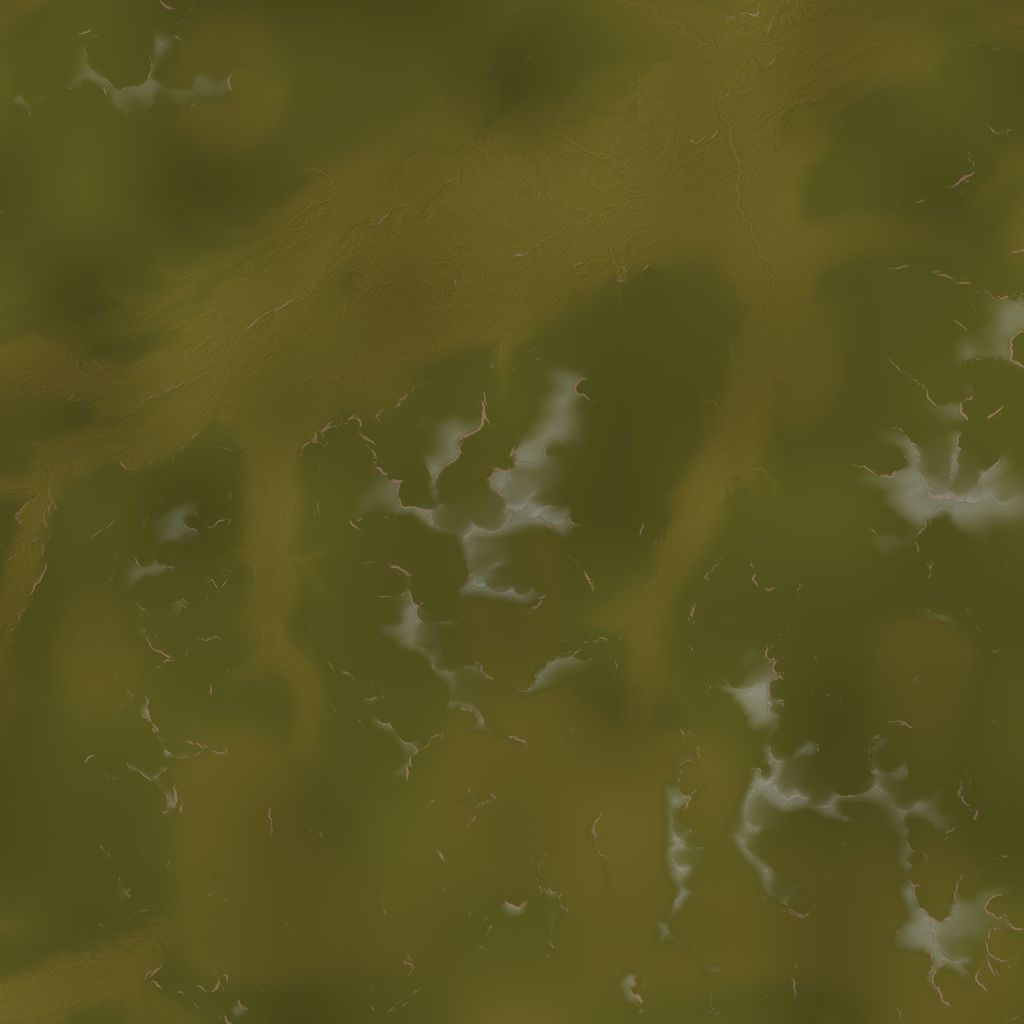
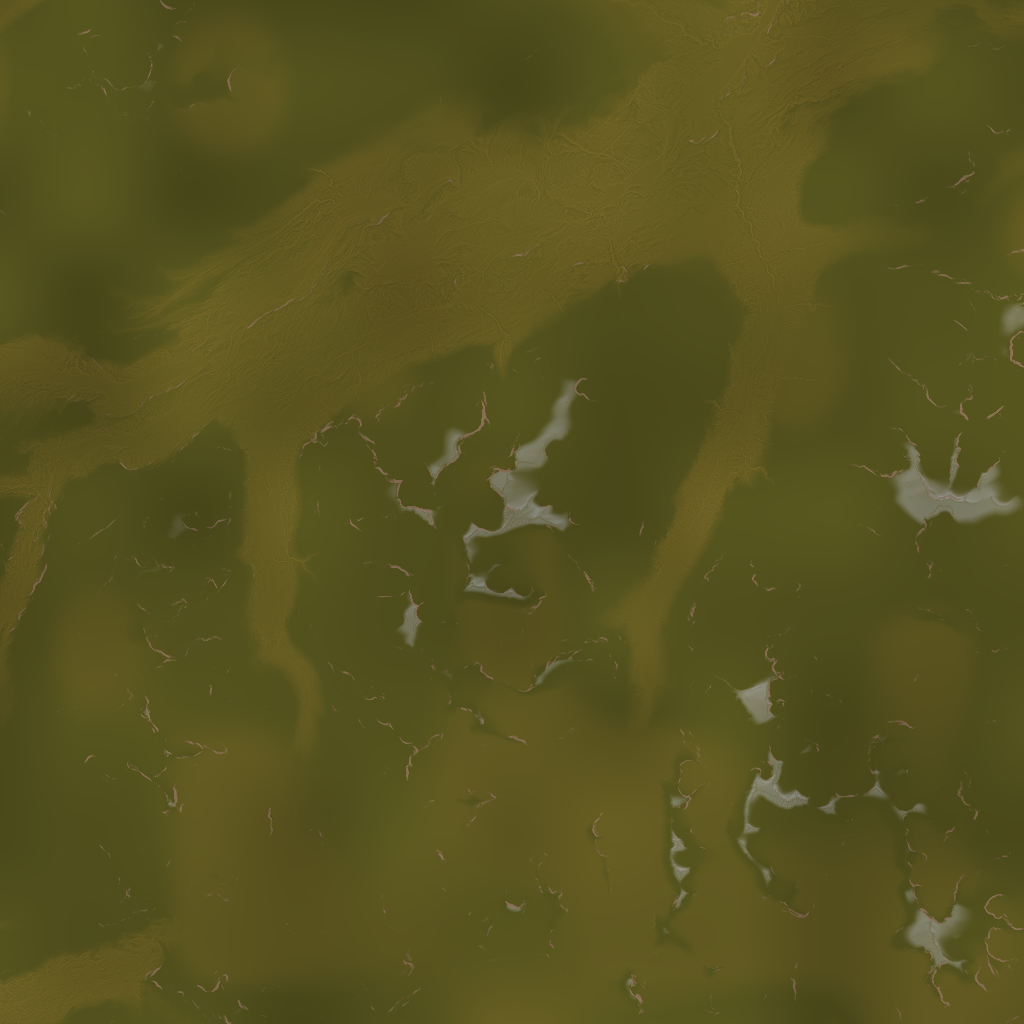
Add per-material texture scales and sharpen elevation blends
Give each packed material a textureScale factor (aerial rock/grass/snow/beach use 0.25-0.5; close-ups 1.0) multiplied by the global 32x slider. Re-bake the Jotunheimen stack with a sharp 100 m snow band at 0.85 and narrower grass elevation transitions, then update the docs and swatch captions.

diff --git a/tools/dem/material-stack.ts b/tools/dem/material-stack.ts
@@ -66,7 +66,8 @@ export interface MaterialStackResult {
   stats: MaterialStackStats;
 }
 
-const SNOW_START = 0.84;
+const SNOW_START = 0.85;
+const SNOW_BAND = 0.04;
 const clamp01 = (v: number): number => (v < 0 ? 0 : v > 1 ? 1 : v);
 const smoothstep = (a: number, b: number, x: number): number => {
   const t = clamp01((x - a) / (b - a));
@@ -150,19 +151,19 @@ export function weightsAt(
   // Rock Face only on genuinely steep faces; rocky terrain owns the rest.
   const cliffFactor = clamp01(smoothstep(0.30, 0.60, sample.slope));
 
-  let snow = smoothstep(SNOW_START, SNOW_START + 0.14, sample.height * 1.06)
+  let snow = smoothstep(SNOW_START, SNOW_START + SNOW_BAND, sample.height)
     * (1 - 0.7 * smoothstep(0.30, 0.62, sample.slope))
     * (0.55 + 0.45 * sample.north)
     * (0.82 + 0.18 * ridgeNoise);
   snow *= 1 - 0.25 * sample.ridge;
   snow = clamp01(snow);
 
-  const lowGrass = (1 - smoothstep(0.42, 0.60, sample.height))
+  const lowGrass = (1 - smoothstep(0.46, 0.54, sample.height))
     * (0.55 + 0.45 * bandNoise)
     * (1 - 0.85 * smoothstep(0.26, 0.55, sample.slope))
     * (0.65 + 0.35 * sample.concavity)
     * (1 - 0.45 * sample.ridge);
-  const altitudeGrass = 1 - smoothstep(0.72, 0.90, sample.height);
+  const altitudeGrass = 1 - smoothstep(0.76, 0.84, sample.height);
   const patch = smoothstep(0.55, 0.82, patchNoise)
     * 0.45
     * (1 - cliffFactor)

diff --git a/tools/fetch-materials.ts b/tools/fetch-materials.ts
@@ -46,6 +46,7 @@ interface SourceMaterial {
   biome: string;
   role: string;
   tileMeters: number;
+  textureScale?: number;
   projection: Projection;
   normalStrength: number;
   roughness: number;
@@ -375,12 +376,15 @@ async function packMaterial(
 
 function outputEntry(packed: PackedMaterial, size: number): Record<string, unknown> {
   const { entry, resolved } = packed;
+  const textureScale = entry.textureScale ?? 1;
+  if (!(textureScale > 0)) throw new Error(`${entry.id}: textureScale must be positive`);
   return {
     id: entry.id,
     name: entry.name,
     biome: entry.biome,
     role: entry.role,
     tileMeters: entry.tileMeters,
+    textureScale,
     projection: entry.projection,
     normalStrength: entry.normalStrength,
     roughness: entry.roughness,
@@ -478,6 +482,11 @@ async function checkManifest(): Promise<void> {
     const tile = asset.dimensions ? asset.dimensions[0] / 1000 : NaN;
     if (!Number.isFinite(tile) || Math.abs(tile - entry.tileMeters) > 0.06) {
       process.stderr.write(`FAIL ${entry.id}: tile ${tile} m, expected ${entry.tileMeters} m\n`);
+      failures++;
+      continue;
+    }
+    if (entry.textureScale !== undefined && !(entry.textureScale > 0)) {
+      process.stderr.write(`FAIL ${entry.id}: textureScale must be positive\n`);
       failures++;
       continue;
     }

diff --git a/src/terrain/renderer.ts b/src/terrain/renderer.ts
@@ -237,7 +237,12 @@ export class ClipmapRenderer {
     this.materialParamsA = Array.from({ length: 24 }, (_, i) => {
       const entry = entries[i];
       return entry
-        ? new THREE.Vector4(entry.tileMeters, entry.slopeScale, entry.normalStrength, entry.roughness)
+        ? new THREE.Vector4(
+          entry.tileMeters * (entry.textureScale ?? 1),
+          entry.slopeScale,
+          entry.normalStrength,
+          entry.roughness,
+        )
         : new THREE.Vector4(1, 1, 0, 1);
     });
     this.materialParamsB = Array.from({ length: 24 }, (_, i) => {
@@ -572,7 +577,7 @@ export class ClipmapRenderer {
       const materialScale = this.terrainUniforms.uMaterialScale.value;
       for (let i = 0; i < this.materialLibrary.count; i++) {
         const entry = this.materialLibrary.entries[i];
-        const tile = entry.tileMeters * materialScale;
+        const tile = entry.tileMeters * (entry.textureScale ?? 1) * materialScale;
         this.materialUvOffset[i]?.set(
           wrapPhase(renderOrigin.x, tile),
           wrapPhase(renderOrigin.y, tile),

diff --git a/src/terrain/materials.ts b/src/terrain/materials.ts
@@ -19,6 +19,7 @@ export interface MaterialManifestEntry {
   biome: string;
   role: string;
   tileMeters: number;
+  textureScale?: number;
   projection: MaterialProjection;
   normalStrength: number;
   roughness: number;
@@ -93,6 +94,9 @@ function validateManifest(manifest: MaterialManifest): void {
       throw new Error(`material ${entry.id} is missing a packed texture path`);
     }
     if (!(entry.tileMeters > 0)) throw new Error(`material ${entry.id} has an invalid tile size`);
+    if (entry.textureScale !== undefined && !(entry.textureScale > 0)) {
+      throw new Error(`material ${entry.id} has an invalid texture scale`);
+    }
     if (!(entry.slopeScale > 0)) throw new Error(`material ${entry.id} has an invalid slope scale`);
     if (entry.projection !== 'planar' && entry.projection !== 'triplanar') {
       throw new Error(`material ${entry.id} has an invalid projection`);

diff --git a/tools/test-materials.ts b/tools/test-materials.ts
@@ -31,6 +31,7 @@ interface MaterialEntry {
   biome: string;
   role: string;
   tileMeters: number;
+  textureScale?: number;
   projection: 'planar' | 'triplanar';
   normalStrength: number;
   roughness: number;
@@ -89,6 +90,10 @@ function validate(root: string, manifestPath: string): string[] {
     if (!entry.role) errors.push(`${prefix}: missing role`);
     if (!isFiniteNumber(entry.tileMeters) || entry.tileMeters < 0.5 || entry.tileMeters > 100) {
       errors.push(`${prefix}: tileMeters ${String(entry.tileMeters)} outside 0.5..100`);
+    }
+    if (entry.textureScale !== undefined
+      && (!isFiniteNumber(entry.textureScale) || entry.textureScale <= 0)) {
+      errors.push(`${prefix}: textureScale invalid`);
     }
     if (entry.projection !== 'planar' && entry.projection !== 'triplanar') {
       errors.push(`${prefix}: projection ${String(entry.projection)}`);

diff --git a/dem.html b/dem.html
@@ -95,7 +95,7 @@
         <label class="slider-row">Height blend <input type="range" id="height-blend" min="0" max="0.6" value="0.25" step="0.05" /><span id="height-blend-val">0.25×</span></label>
         <label class="slider-row">Material normals <input type="range" id="material-normal-strength" min="0" max="2" value="1" step="0.05" /><span id="material-normal-strength-val">1.00×</span></label>
         <label class="slider-row">Texture scale <input type="range" id="material-scale" min="1" max="64" value="32" step="1" /><span id="material-scale-val">32.0×</span></label>
-        <p class="info">20 materials · baked 4-slot stack · 2048² · 32× default tile scale</p>
+        <p class="info">20 materials · baked 4-slot stack · 2048² · 32× global + per-material scales</p>
       </section>
 
       <section class="credits">

diff --git a/src/materials/main.ts b/src/materials/main.ts
@@ -15,6 +15,7 @@ interface SwatchMaterial {
   biome: string;
   role: string;
   tileMeters: number;
+  textureScale?: number;
   slopeScale: number;
   albedoHeight: string;
   slopeRough: string;
@@ -99,7 +100,8 @@ function addSwatch(container: HTMLElement, entry: SwatchMaterial, image: ImageDa
   const name = document.createElement('b');
   name.textContent = entry.name;
   const meta = document.createElement('span');
-  meta.textContent = `${entry.role} · ${entry.tileMeters.toFixed(1)} m`;
+  const scale = entry.textureScale ?? 1;
+  meta.textContent = `${entry.role} · ${entry.tileMeters.toFixed(1)} m × ${scale.toFixed(2)}`;
   caption.append(name, meta);
   figure.append(canvas, caption);
   container.append(figure);

diff --git a/docs/MATERIALS.md b/docs/MATERIALS.md
@@ -17,11 +17,25 @@ changes.
     A ambient occlusion.
 - **Layers:** two `DataArrayTexture`s, one layer per material, with mips and
   anisotropy. Albedo is sampled as sRGB; slope/rough/ao is linear.
-- **Physical scale:** `tileMeters` is Poly Haven's `dimensions / 1000`. The
-  renderer applies a global `textureScale` multiplier to it (default **32×**,
-  panel slider 1–64×), so the packed textures read at a larger world scale
-  without re-packing. The shader divides by `tileMeters * textureScale`; the
-  world-lock offset uses the same scaled tile.
+- **Physical scale:** `tileMeters` is Poly Haven's `dimensions / 1000`.
+  Each material also has a packed `textureScale` factor; the shader divides
+  by `tileMeters * materialTextureScale * globalTextureScale`. The global
+  texture scale is **32×** by default (panel slider 1–64×). Aerial materials
+  use smaller per-material factors so they stay at a sensible macro scale
+  while the close-up materials get the full 32×.
+
+| Material | tileMeters | textureScale | effective at 32× |
+|---|---:|---:|---:|
+| `rocky_terrain_02` | 90 | 0.25 | 720 m |
+| `aerial_grass_rock` | 15 | 0.5 | 240 m |
+| `rock_face_03` | 2.7 | 1.0 | 86.4 m |
+| `snow_02` | 2.0 | 1.0 | 64 m |
+| `snow_field_aerial` | 80 | 0.25 | 640 m |
+| `aerial_beach_01` | 30 | 0.25 | 240 m |
+
+The other library materials default to `textureScale = 1`. Edit the values in
+`tools/materials/polyhaven.json` and run `npm run bake:materials` to refresh
+the packed manifest. The global panel slider still multiplies all materials.
 - **Slope encoding:** the shader decodes `s = (rg * 2 - 1) * slopeScale`; the
   per-material `slopeScale` prevents clipping steep gradients. Poly Haven's
   `nor_dx` (green-down) is converted to the repo's V = +z frame during packing.
@@ -57,8 +71,9 @@ macro-albedo.png   1024^2 RGBA8   low-frequency far-field albedo
 
 The bake derives weights from the 10 m L0 height grid:
 
-- **Snow:** high normalized height (start 0.84, ~2100 m), reduced on steep
-  slopes, boosted on north-facing slopes (`-N.z`).
+- **Snow:** high normalized height (start 0.85, ~2125 m), with a sharp
+  ~100 m elevation band, reduced on steep slopes, boosted on north-facing
+  slopes (`-N.z`).
 - **Grass / Aerial Grass Rock:** low, gentle, concave ground plus seeded
   ~4.2 km random patches over the low-steepness rocky areas.
 - **Rocky Terrain 02:** the low/moderate-steepness base.
@@ -68,7 +83,7 @@ The bake derives weights from the 10 m L0 height grid:
 
 Convexity/concavity from the height-grid Laplacian and seeded low-frequency
 value noise are secondary inputs. The current window's mean weights are
-`0.779 / 0.010 / 0.014 / 0.197` (rocky/cliff/snow/grass); the stack has
+`0.794 / 0.010 / 0.008 / 0.189` (rocky/cliff/snow/grass); the stack has
 non-degenerate ranges for all four.
 
 ## Shader composition
@@ -146,6 +161,10 @@ the checked-in files (IDs, weight sums, ranges, dimensions and hashes) without
 network access.
 
 ## Measured results and limitations
+
+**Note:** the numbers below were captured before the per-material scale and
+the rocky/aerial-grass rebalance. Re-run the headless QA after visual sign-off;
+the current stack has not been re-measured.
 
 From the Nov 2026 headless pass (SwiftShader, 1600×900):
 

diff --git a/README.md b/README.md
@@ -92,7 +92,8 @@ Poly Haven library and a baked four-slot distribution:
 - **20 materials** (24 cap), packed as 512² RGBA8 albedo+height and
   slope+roughness+AO arrays. Physical tile sizes come from Poly Haven's
   recorded dimensions; the renderer applies a 32× world tile scale by default
-  (panel slider 1–64×).
+  (panel slider 1–64×). Aerial materials carry smaller per-material factors
+  (0.25–0.5) so they stay macro-scale while the close-up materials use 1×.
 - **Baked stack** — a 2048² map of four material IDs and four normalized
   weights over the 30.72 km window, plus a 1024² macro albedo for the far
   field. The weight rules are steepness-driven: Rocky Terrain 02 owns the low
@@ -126,7 +127,7 @@ instead of the unbounded wander.
 | Panel → Materials → Mode | material on / off / debug weight view |
 | Height blend | bias material boundaries by the packed height |
 | Material normals | scale the material slope contribution |
-| Texture scale | world tile multiplier; default 32×, slider 1–64× |
+| Texture scale | global world tile multiplier; default 32×, slider 1–64×; per-material factors in the manifest |
 
 ## Verification
 

diff --git a/docs/DEM_DATASET.md b/docs/DEM_DATASET.md
@@ -191,8 +191,9 @@ window, so the weights cross-fade without an ID-set change.
 
 Weights come from the 10 m L0 grid:
 
-- **Snow:** high normalized height, reduced on steep slopes, boosted on
-  north-facing slopes (`-N.z`).
+- **Snow:** high normalized height (start 0.85), with a sharp ~100 m
+  elevation band, reduced on steep slopes, boosted on north-facing slopes
+  (`-N.z`).
 - **Grass / Aerial Grass Rock:** low, gentle, concave ground plus seeded
   ~4.2 km random patches over the low-steepness rocky areas.
 - **Rocky Terrain 02:** the low/moderate-steepness base.
@@ -233,7 +234,7 @@ the checked-in dataset:
 Reference values for the checked-in 2× dataset: 3,080 tiles, 128×128 normal
 tiles, max seam error 1, 18 normal tiles rebaked during validation, a 2048²
 material stack and 1024² macro, stack weight means
-`0.779 / 0.010 / 0.014 / 0.197` (rocky/cliff/snow/grass), and ~107.5 MB
+`0.794 / 0.010 / 0.008 / 0.189` (rocky/cliff/snow/grass), and ~107.5 MB
 including heights, normals, coarse grid, preview, stack and macro. The packed
 material library is a separate ~33.5 MB under `public/materials/`.
 

diff --git a/AGENTS.md b/AGENTS.md
@@ -228,9 +228,10 @@ the binary is at `~/.local/bin/openspec`.
     `uv = vWorldPos.xz / uStackExtent + 0.5 + renderOrigin.xz / uStackExtent`;
     it must not use the phase-wrapped `uRenderOrigin` (that is for the tiled
     height/normal atlases). The stack is clamped, not repeated. Material UVs
-    use `mod(renderOrigin, tileMeters * uMaterialScale)` and divide by the
-    same scaled tile (default 32×); do not modulo the unscaled physical size or
-    the pattern jumps on rebase.
+    use `mod(renderOrigin, tileMeters * materialTextureScale * uMaterialScale)`
+    and divide by the same scaled tile (global default 32×; aerial materials
+    use per-material factors). Do not modulo the unscaled physical size or the
+    pattern jumps on rebase.
 22. **Material normals are RG slopes, not RGB normals.** Decode
     `s = (rg * 2 - 1) * slopeScale`; Poly Haven's `nor_dx` is converted to the
     repo's V = +z frame at pack time. Compose as a slope sum with the base

diff --git a/docs/VERIFICATION.md b/docs/VERIFICATION.md
@@ -188,9 +188,10 @@ slice: `rocky_terrain_02`, `rock_face_03`, `snow_02`, `aerial_grass_rock`. The
 stack is 2048² over the 30.72 km window; the macro albedo is 1024². Material
 textures are 512² arrays with mips/anisotropy. The panel's **Texture scale**
 slider multiplies the material world tile (default 32×; range 1–64×); the
-world-lock offset uses the same scaled tile. The material-off path preserves
-the old height/slope palette; the infinite page does not load materials in
-this change.
+world-lock offset uses the same scaled tile. Aerial materials also carry a
+smaller per-material `textureScale` factor in the packed manifest. The
+material-off path preserves the old height/slope palette; the infinite page
+does not load materials in this change.
 
 `puppeteer` runs at roughly 1 fps on SwiftShader with the material shader; the
 headless pass proves the pipeline, not real-GPU performance. A real-GPU
